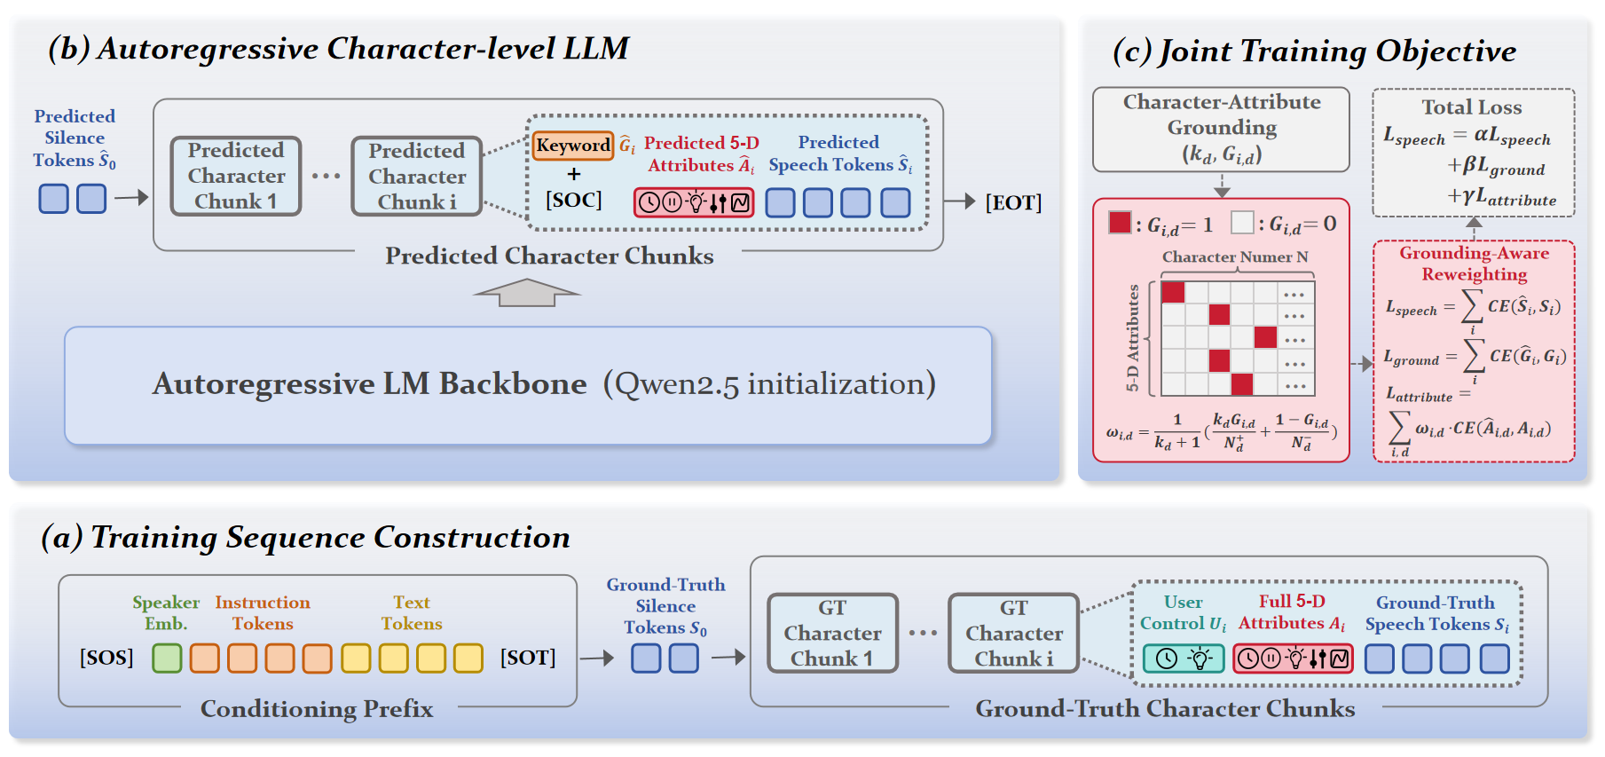
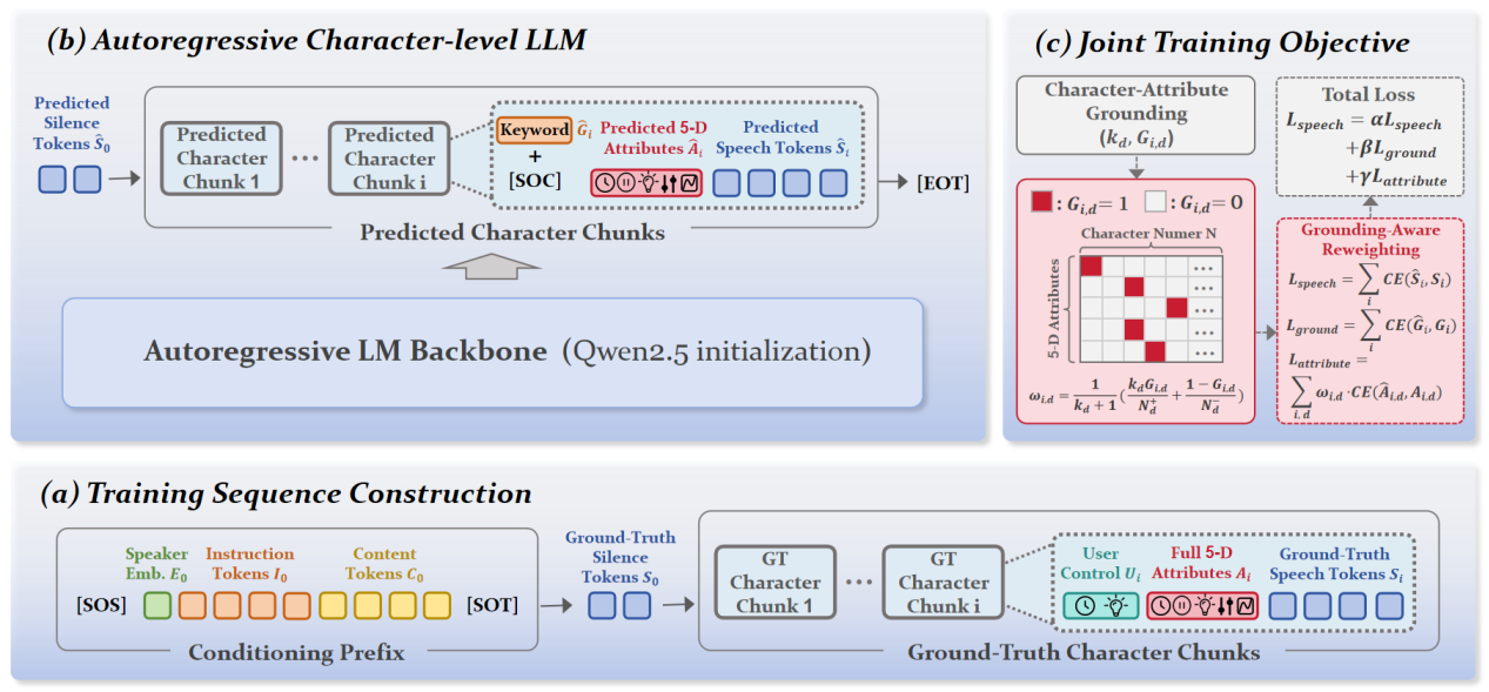
Update demo page

diff --git a/index.html b/index.html
@@ -624,17 +624,16 @@
     <div class="conference">ICASSP AUDIO DEMO</div>
 
     <h1>
-      <span>InstCharVoice</span>: Keyword-Aware
-      Character-Level Instruction TTS
+      <span>InstCharVoice</span>: Grounding Natural-Language Instructions for Character-Level Control in Text-to-Speech
     </h1>
 
     <p class="anonymous-note">
-      Anonymous submission
+      Submission to ICASSP2027
     </p>
 
     <p class="subtitle abstract">
       <strong>Abstract —</strong>
-      xxx
+      Instruction-based text-to-speech (ITTS) systems enable natural-language control of expressive speech generation, but often offer limited transparency and fine-grained control over individual text units. Character-level controllable TTS systems provide explicit acoustic control, yet typically rely on user-specified acoustic attributes. To bridge this gap, we propose InstCharVoice, a unified framework that grounds natural-language instructions in character-level acoustic control. We first construct grounded instruction annotations on the WordVoice-5A-zh corpus using Qwen3-Omni. With this supervision, we train an autoregressive model to identify instruction-relevant characters and predict their acoustic attributes before generating the corresponding speech tokens. Keyword prediction and grounding-aware loss weighting help the model focus on instruction-relevant characters and attributes. Experiments show improved instruction following and keyword-level acoustic control over representative ITTS systems, with competitive speech naturalness and explicit character-level controllability.
     </p>
 
     <div class="pipeline" aria-label="Method overview">
@@ -659,7 +658,7 @@
             style="display: block; width: 50%; height: auto; margin: 0 auto;"
           >
           <figcaption>
-            Overview of InstCharVoice. Given natural-language instructions and input text, the framework grounds each local control request to its target characters and acoustic attributes, predicts an explicit five-dimensional character-level acoustic plan, and conditions speech generation on the predicted plan.
+            Motivation and overview of InstCharVoice. The framework bridges natural-language instructions and explicit character-level acoustic control through instruction grounding and acoustic planning.
           </figcaption>
         </figure>
 
@@ -671,7 +670,7 @@
             style="display: block; width: 60%; height: auto; margin: 0 auto;"
           >
           <figcaption>
-            Model architecture of InstCharVoice, including (a) character-level sequence construction, (b) autoregressive prediction of grounding labels, acoustic attributes, and speech tokens, and (c) the grounding-aware training objective.
+            Model architecture of InstCharVoice, including (a) training sequence construction, (b) autoregressive modeling of character-level speech chunks, and (c) grounding-aware training objective.
           </figcaption>
         </figure>
       </section>
